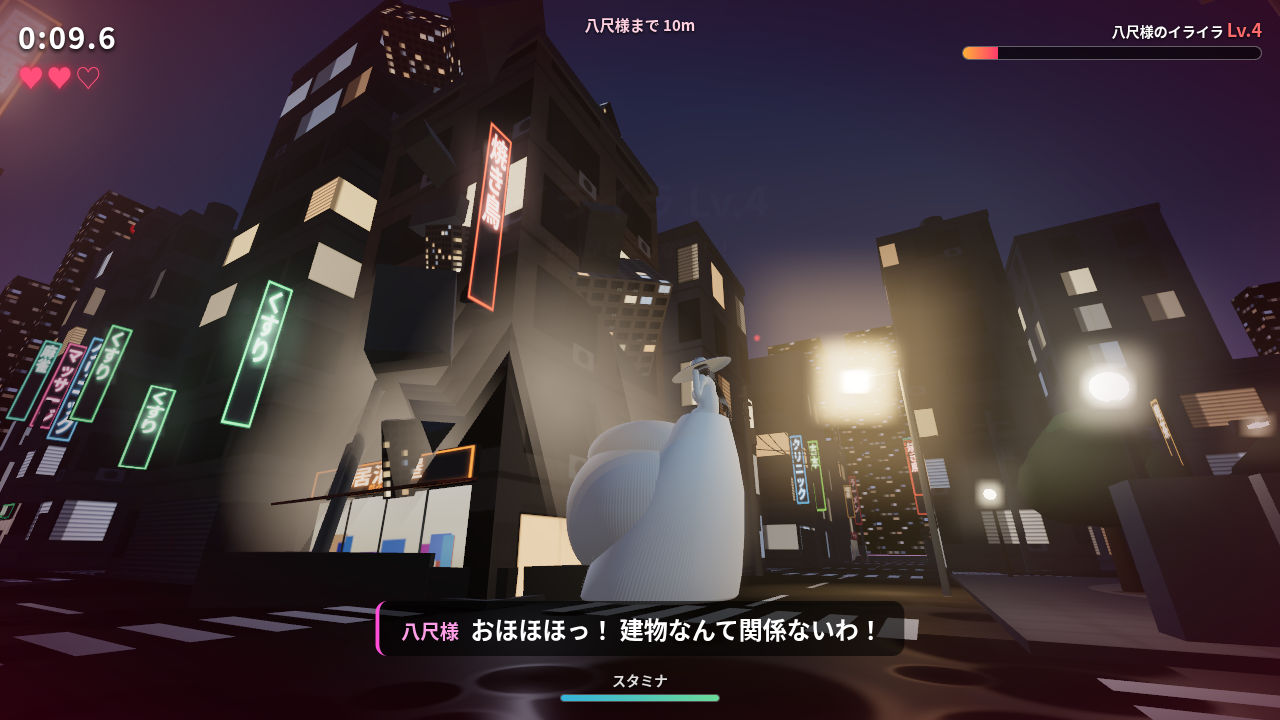
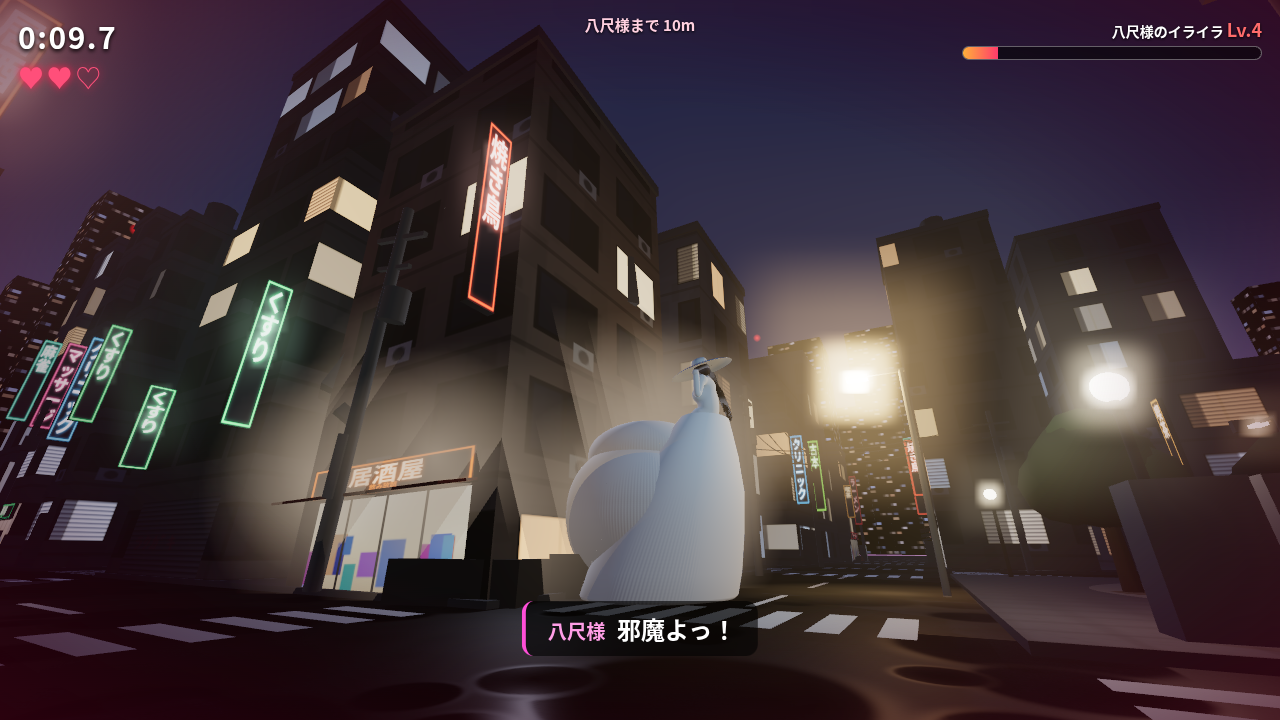
Remove sprint/stamina; player runs at 6 m/s by default; slower Hachishaku at every stage

diff --git a/js/main.js b/js/main.js
@@ -80,7 +80,7 @@ hands.visible = false;
 // ---------------- state
 const S = {
   mode: 'title', time: 0, hearts: 3, irritation: 0, stage: 0, maxStage: 0, buildings: 0, escapes: 0, catches: 0,
-  pos: new THREE.Vector3(), yaw: 0, pitch: 0, vel: new THREE.Vector3(), knock: new THREE.Vector3(), stamina: 100, exhausted: false, invuln: 0,
+  pos: new THREE.Vector3(), yaw: 0, pitch: 0, vel: new THREE.Vector3(), knock: new THREE.Vector3(), invuln: 0,
   bob: 0, stepAcc: 0, shake: 0,
   h: { pos: hachi.root.position, yaw: 0, path: null, pathT: 0, wp: 0, stun: 0, lunge: 0, lungeCd: 3, lostT: 0, sawPlayer: false, wasNear: false, tauntT: 6, smashCd: 0, exprT: 0, expr: null, stuckT: 0, lastPos: new THREE.Vector3(), speed: 0 },
   grab: null, overT: 0, angryT: 0,
@@ -89,7 +89,9 @@ window.__game = { S, hachi, world, audio, camera, renderer, scene, get info() { 
 
 // ---------------- input
 const keys = {};
-let mouseDX = 0, mouseDY = 0, sprintTouch = false;
+// speeds (m/s). Player is always clearly faster in the open; she wins only by cornering / lunging up close.
+const PLAYER_SPEED = 6.0;
+let mouseDX = 0, mouseDY = 0;
 addEventListener('keydown', (e) => {
   keys[e.code] = true;
   if (e.code === 'Space') { e.preventDefault(); if (S.mode === 'grab') slap(); }
@@ -143,7 +145,6 @@ document.body.addEventListener('pointerdown', (e) => {
 document.body.addEventListener('pointermove', (e) => { for (const k of ['L', 'R']) if (sticks[k].id === e.pointerId) stickMove(sticks[k], e); });
 const pEnd = (e) => { for (const k of ['L', 'R']) if (sticks[k].id === e.pointerId) stickUp(sticks[k]); };
 document.body.addEventListener('pointerup', pEnd); document.body.addEventListener('pointercancel', pEnd);
-$('sprint-btn').addEventListener('touchstart', (e) => { sprintTouch = !sprintTouch; $('sprint-btn').classList.toggle('on', sprintTouch); e.preventDefault(); e.stopPropagation(); }, { passive: false });
 $('pause-btn').addEventListener('click', () => { if (S.mode === 'play') pause(); });
 
 // ---------------- UI
@@ -171,7 +172,7 @@ function placeHachiTitle() {
 }
 function resetGame() {
   S.time = 0; S.hearts = 3; S.irritation = 0; S.stage = 0; S.maxStage = 0; S.buildings = 0; S.escapes = 0; S.catches = 0;
-  S.stamina = 100; S.exhausted = false; S.invuln = 2; S.vel.set(0, 0, 0); S.knock.set(0, 0, 0);
+  S.invuln = 2; S.vel.set(0, 0, 0); S.knock.set(0, 0, 0);
   S.pos.set(ROADS[4] + 0, 0, ROADS[5] - 2); S.yaw = Math.PI; S.pitch = 0.05;
   hachi.setStage(0, true);
   const h = S.h; h.pos.set(ROADS[4], 0, ROADS[4] - 4); h.yaw = 0; hachi.root.rotation.y = 0; h.path = null; h.stun = 0; h.lunge = 0; h.lungeCd = 4; h.lostT = 0; h.wasNear = false; h.tauntT = 7; h.smashCd = 0; h.stuckT = 0;
@@ -275,11 +276,7 @@ function updatePlayer(dt) {
   if (keys.KeyA || keys.ArrowLeft) mx -= 1; if (keys.KeyD || keys.ArrowRight) mx += 1;
   mx += sticks.L.x; mz += sticks.L.y;
   const ml = Math.hypot(mx, mz); if (ml > 1) { mx /= ml; mz /= ml; }
-  const wantSprint = (keys.ShiftLeft || keys.ShiftRight || sprintTouch) && ml > 0.1;
-  const sprint = wantSprint && !S.exhausted;
-  if (sprint) { S.stamina -= dt * 20; if (S.stamina <= 0) { S.stamina = 0; S.exhausted = true; } }
-  else { S.stamina = Math.min(100, S.stamina + dt * (ml > 0.1 ? 11 : 18)); if (S.exhausted && S.stamina > 35) S.exhausted = false; }
-  const speed = sprint ? 6.1 : 3.5;
+  const speed = PLAYER_SPEED; // fast by default (no sprint / stamina)
   const sin = Math.sin(S.yaw), cos = Math.cos(S.yaw);
   const tx = (mx * cos + mz * sin) * speed, tz = (-mx * sin + mz * cos) * speed;
   const k = 1 - Math.exp(-dt * 12);
@@ -288,14 +285,14 @@ function updatePlayer(dt) {
   S.knock.multiplyScalar(Math.exp(-dt * 4));
   world.collide(S.pos, 0.32); world.collideProps(S.pos, 0.32);
   const sp = Math.hypot(S.vel.x, S.vel.z);
-  S.bob += sp * dt * 2.2;
-  S.stepAcc += sp * dt; if (S.stepAcc > (sprint ? 1.25 : 0.95)) { S.stepAcc = 0; audio.playerStep(sprint); }
+  S.bob += sp * dt * 1.55; // ~2.3 steps/s at full speed
+  S.stepAcc += sp * dt; if (S.stepAcc > 1.3) { S.stepAcc = 0; audio.playerStep(sp > 4); }
   S.invuln = Math.max(0, S.invuln - dt);
 }
 
 function hachiTargetSpeed() {
-  const base = 3.75 + S.irritation * 0.005;
-  return base * Math.max(0.62, 1 - 0.055 * S.stage);
+  const base = 2.9 + S.irritation * 0.004; // 2.9 .. 3.3 by irritation
+  return base * Math.max(0.6, 1 - 0.07 * S.stage); // stage0 2.9-3.3, stage2 2.5-2.8, stage4 2.1-2.4, stage6+ 1.7-2.0
 }
 
 function updateHachi(dt) {
@@ -328,7 +325,7 @@ function updateHachi(dt) {
     }
     speed = hachiTargetSpeed();
     h.lungeCd -= dt;
-    if (h.lunge > 0) { h.lunge -= dt; speed *= 1.55; }
+    if (h.lunge > 0) { h.lunge -= dt; speed *= 1.7; } // short burst, still below PLAYER_SPEED
     else if (dist < 6 && h.lungeCd <= 0 && los) { h.lunge = 0.75; h.lungeCd = 5 + Math.random() * 3; }
     if (S.invuln > 0 && bdist < 3) speed *= 0.3;
   }
@@ -452,7 +449,7 @@ function updateCamera(dt, dist) {
   const bobY = Math.sin(S.bob * Math.PI) * 0.035, bobX = Math.cos(S.bob * Math.PI * 0.5) * 0.02;
   camera.position.set(S.pos.x + (Math.random() - 0.5) * sh * 0.25, eye + bobY + (Math.random() - 0.5) * sh * 0.25, S.pos.z + (Math.random() - 0.5) * sh * 0.25);
   camera.rotation.set(S.pitch + (Math.random() - 0.5) * sh * 0.03, S.yaw, bobX * 0.3, 'YXZ');
-  const targetFov = S.mode === 'grab' ? 82 : (Math.hypot(S.vel.x, S.vel.z) > 5 ? 80 : 74);
+  const targetFov = S.mode === 'grab' ? 82 : (74 + Math.min(1, Math.hypot(S.vel.x, S.vel.z) / PLAYER_SPEED) * 5);
   camera.fov += (targetFov - camera.fov) * (1 - Math.exp(-dt * 5)); camera.updateProjectionMatrix();
 }
 
@@ -518,7 +515,6 @@ function updateHUD(dist) {
   $('hearts').textContent = '♥'.repeat(Math.max(0, S.hearts)) + '♡'.repeat(Math.max(0, 3 - S.hearts));
   $('lv').textContent = 'Lv.' + S.stage;
   $('irr').style.width = Math.min(100, S.irritation) + '%';
-  $('stamina').style.width = S.stamina + '%'; $('stamina').style.opacity = S.exhausted ? 0.4 : 1;
   $('dist').textContent = dist < 60 ? `八尺様まで ${Math.max(0, dist - hachi.radius).toFixed(0)}m` : '';
 }
 

diff --git a/css/style.css b/css/style.css
@@ -45,8 +45,6 @@ h1 span{display:inline-block;margin-left:.15em;font-size:.7em;color:#5ff2ff;text
 .bar{height:14px;border-radius:8px;background:rgba(0,0,0,.55);border:1px solid rgba(255,255,255,.35);overflow:hidden}
 .bar>div{height:100%;width:0;background:linear-gradient(90deg,#ffb03b,#ff3b6b);transition:width .15s}
 .bar.small{height:8px;width:160px}
-#stamina{background:linear-gradient(90deg,#3bd1ff,#7affb0)!important}
-#stamina-wrap{position:absolute;left:50%;bottom:18px;transform:translateX(-50%);text-align:center;opacity:.85}
 #announce{position:absolute;left:0;right:0;top:22%;text-align:center;font-size:clamp(26px,4.5vw,52px);font-weight:900;color:#fff;text-shadow:0 0 10px #ff3b6b,0 0 30px #ff3b6b,3px 3px 0 #400;opacity:0;transition:opacity .3s,transform .3s;transform:scale(.8)}
 #announce.show{opacity:1;transform:scale(1)}
 #announce small{display:block;font-size:.45em;color:#ffd9ec;margin-top:6px}
@@ -73,8 +71,6 @@ h1 span{display:inline-block;margin-left:.15em;font-size:.7em;color:#5ff2ff;text
 .stick.active .knob{transition:none}
 .stick span{position:absolute;left:0;right:0;top:-22px;text-align:center;font-size:12px;font-weight:700;color:rgba(255,255,255,.7);text-shadow:0 1px 3px #000}
 #stickR .knob{box-shadow:0 0 12px rgba(255,90,150,.55)}
-#sprint-btn{pointer-events:auto;position:absolute;right:56px;bottom:196px;width:86px;height:86px;border-radius:50%;border:2px solid rgba(95,242,255,.8);background:rgba(10,40,70,.55);color:#bff;font-weight:900;font-size:16px}
-#sprint-btn.on{background:rgba(60,180,255,.6)}
 .touch-only{display:none} body.touch .touch-only,body.sticks #pause-btn{display:inline-block} body.touch .pc-only{display:none}
 .sp{display:none}
 @media (max-width:760px){.title-wrap{margin-right:0;margin-top:46vh}.sp{display:inline} h1{font-size:44px}}

diff --git a/index.html b/index.html
@@ -24,7 +24,6 @@
     <div class="lbl">八尺様のイライラ <span id="lv">Lv.0</span></div>
     <div class="bar"><div id="irr"></div></div>
   </div>
-  <div id="stamina-wrap"><div class="lbl">スタミナ</div><div class="bar small"><div id="stamina"></div></div></div>
   <div id="announce"></div>
   <div id="dist"></div>
   <button id="pause-btn" class="touch-only" aria-label="一時停止">❚❚</button>
@@ -45,7 +44,6 @@
 <div id="touch" class="hidden">
   <div class="stick" id="stickL"><div class="knob"></div><span>いどう</span></div>
   <div class="stick" id="stickR"><div class="knob"></div><span>してん</span></div>
-  <button id="sprint-btn">ダッシュ</button>
 </div>
 
 <!-- screens -->
@@ -77,7 +75,6 @@
       <tr><th></th><th>PC</th><th>スマホ</th></tr>
       <tr><td>移動</td><td>WASD／矢印キー</td><td>左スティック</td></tr>
       <tr><td>視点</td><td>マウス</td><td>右スティック（上下左右）</td></tr>
-      <tr><td>ダッシュ</td><td>Shift</td><td>ダッシュボタン</td></tr>
       <tr><td>お腹をたたく</td><td>クリック／スペース連打</td><td>タップ連打</td></tr>
       <tr><td>一時停止</td><td>Esc</td><td>❚❚ ボタン</td></tr>
       <tr><td>スティック表示</td><td>T キーで切替</td><td>常に表示</td></tr>

diff --git a/README.md b/README.md
@@ -7,10 +7,11 @@
 
 ## あそびかた
 - 八尺様に捕まらないように、夜の路地裏を逃げ回ってください。生き延びた時間がスコアになります。
+- プレイヤーは最初から速く走れます（秒速6m。ダッシュもスタミナもありません）。八尺様（秒速2.9〜3.3m）より速いので、ひらけた場所なら引き離せます。でも行き止まりや路地に追いこまれると、近くからの飛びかかりで捕まります。
 - 近づかれると**捕まって**、お腹に押しつけられます。**お腹を連打**すると脱出できます（8〜12回くらい。かんたんです）。脱出したあとは少しのあいだ無敵になります。
 - 逃げ続けると八尺様は**イライラ**してきます。メーターが満タンになるたびにお腹が**段階的に巨大化**します（上限はありません）。
   - Lv.1で小さな建物、Lv.2で中くらいの建物、Lv.3からはどんな建物でもお腹で押しつぶせるようになります。
-  - お腹が大きくなるほど、八尺様の足は少し遅くなります。
+  - お腹が大きくなるほど、八尺様の足は遅くなります（Lv.2で秒速2.5〜2.8m、Lv.4で秒速2.1〜2.4m、Lv.6以上で秒速1.7〜2.0m）。そのかわり、体が大きくなるぶん通せんぼされやすくなります。
   - プレイヤーを捕まえると、イライラが少しおさまります。
 - ハートは3つです。捕まるたびに1つ減り、0になったらゲームオーバーです。
 
@@ -20,7 +21,6 @@
 | 移動 | WASD／矢印キー | 左スティック（左下・触れた場所に出ます） |
 | 視点 | マウス（クリックで視点操作を開始） | 右スティック（右下・上下左右、上も大きく見上げられます） |
 | スティック表示 | T キーで切り替え（PCでも2本スティックを使えます） | 常に表示 |
-| ダッシュ | Shift（スタミナを使います） | 「ダッシュ」ボタン |
 | お腹をたたく（捕まったとき） | クリック／スペースを連打 | タップを連打 |
 | 一時停止 | Esc | ❚❚ ボタン |
 
